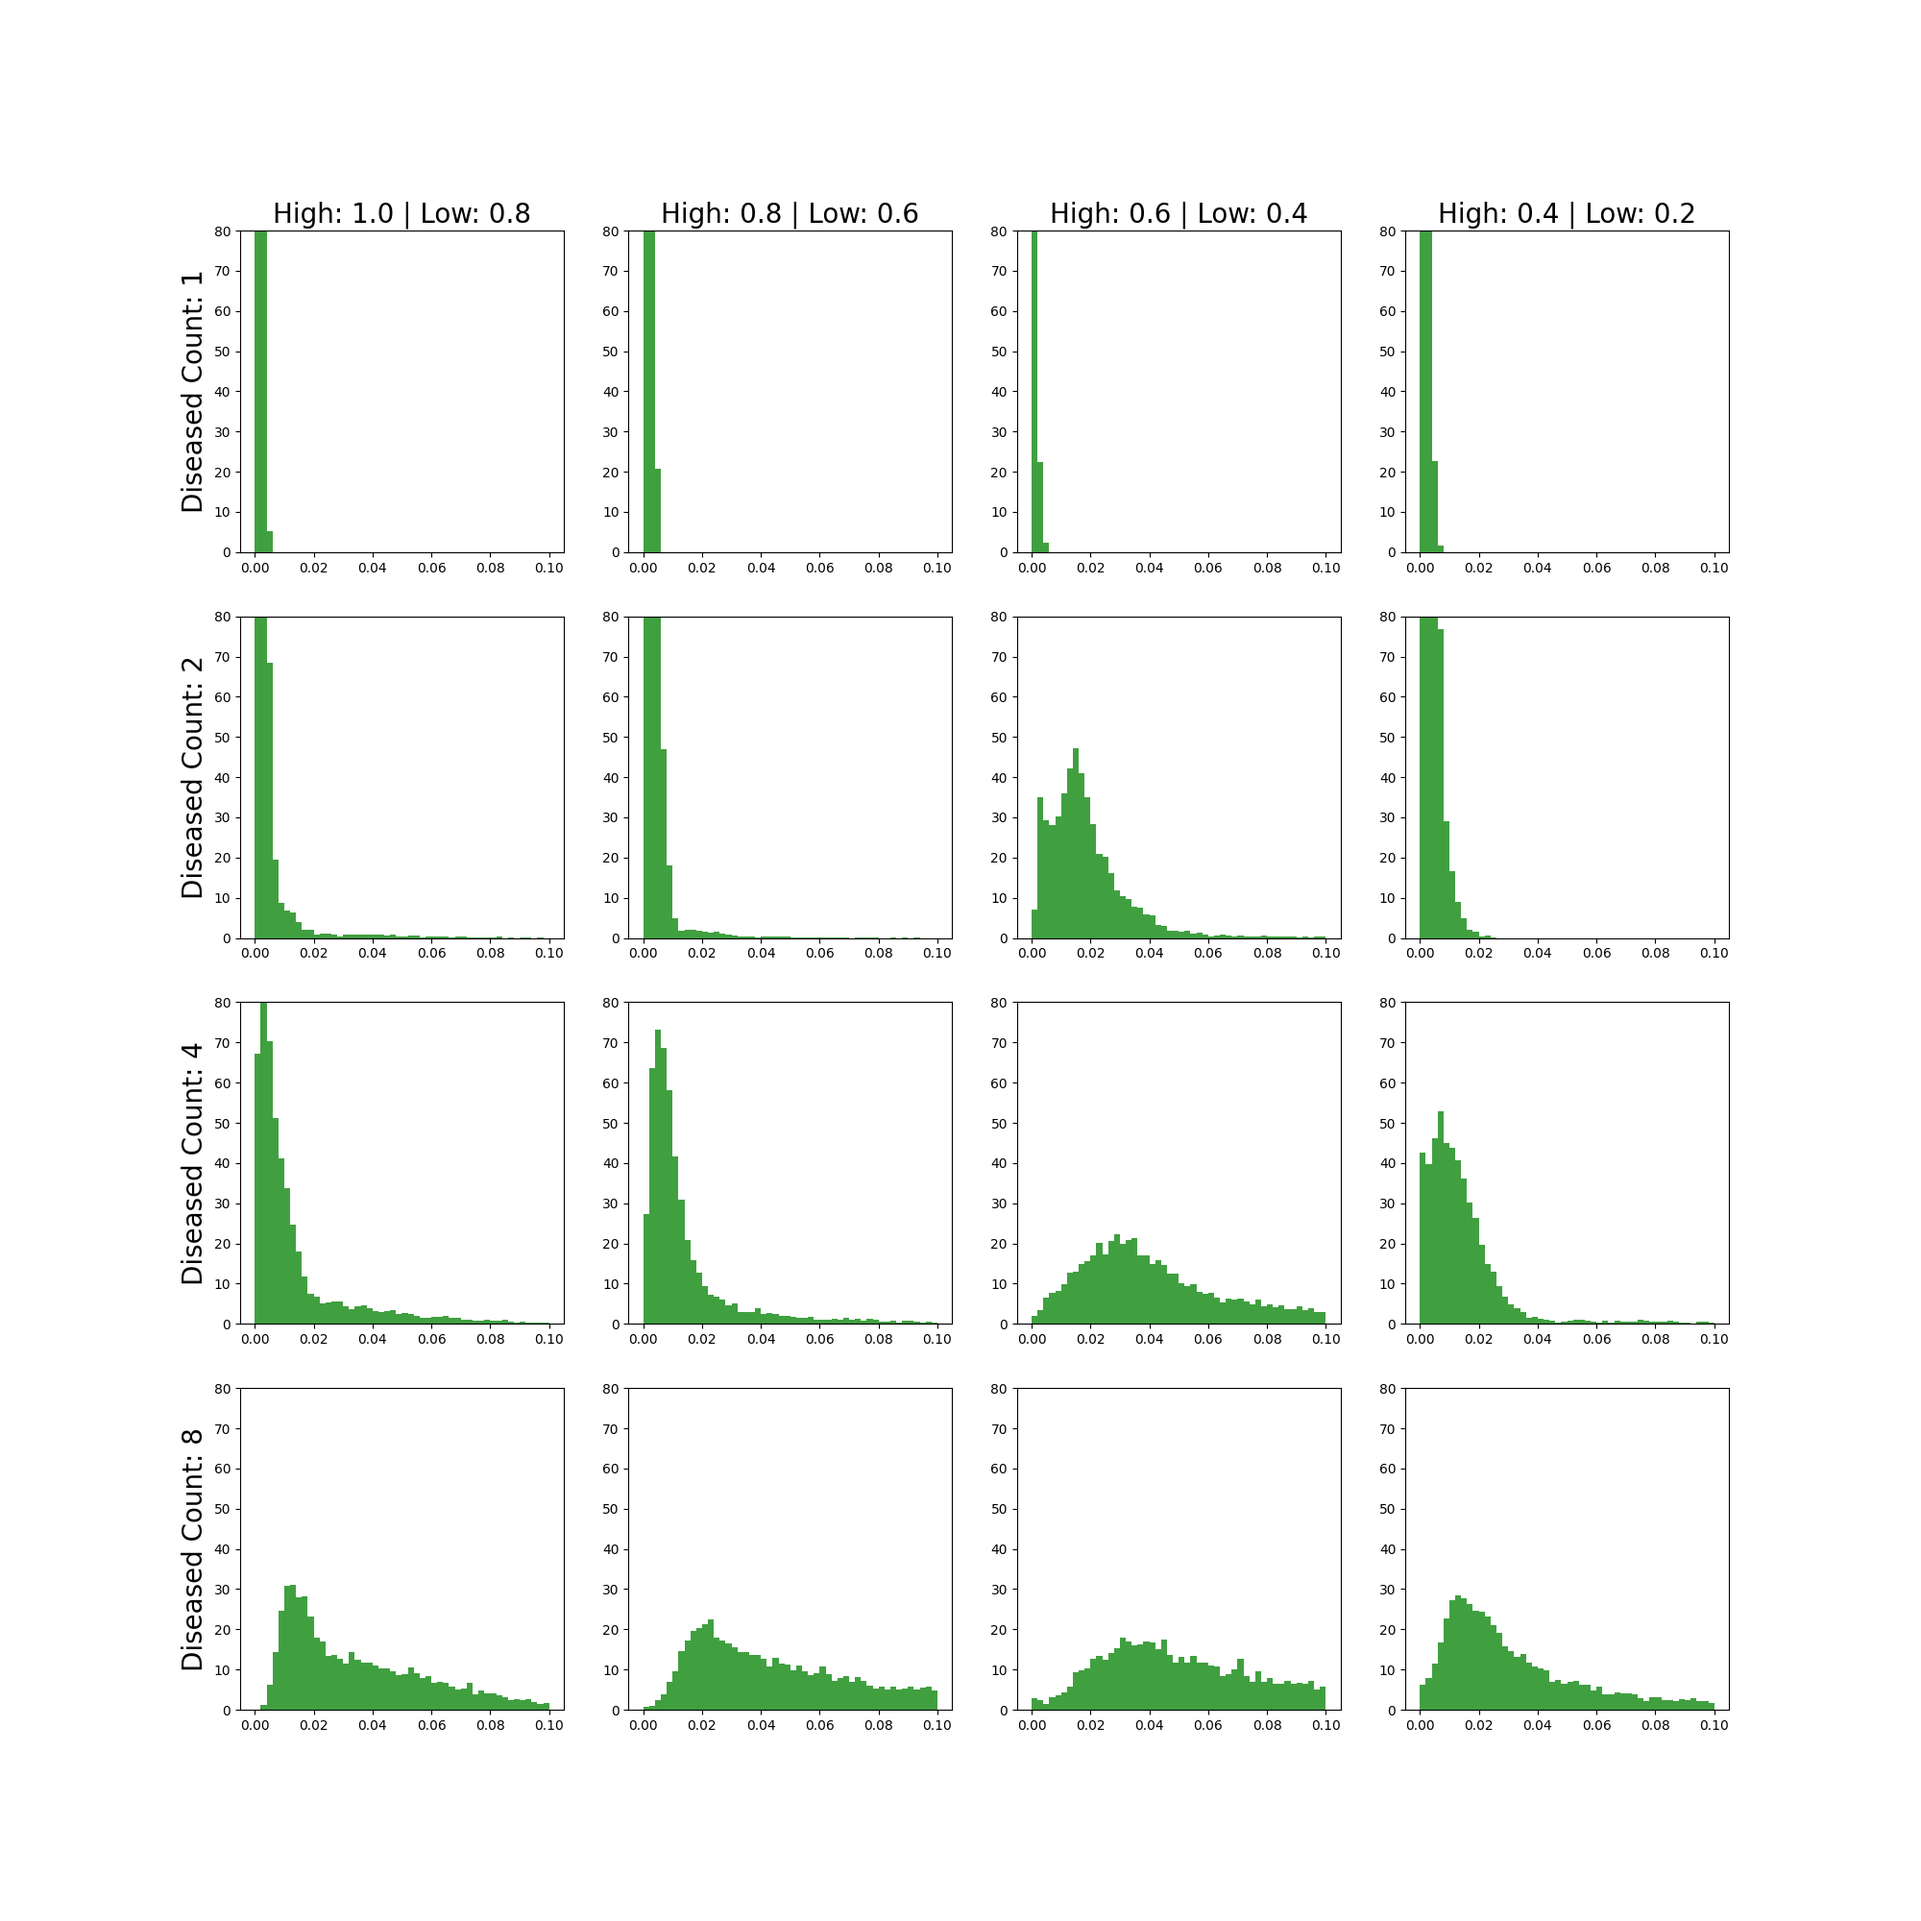
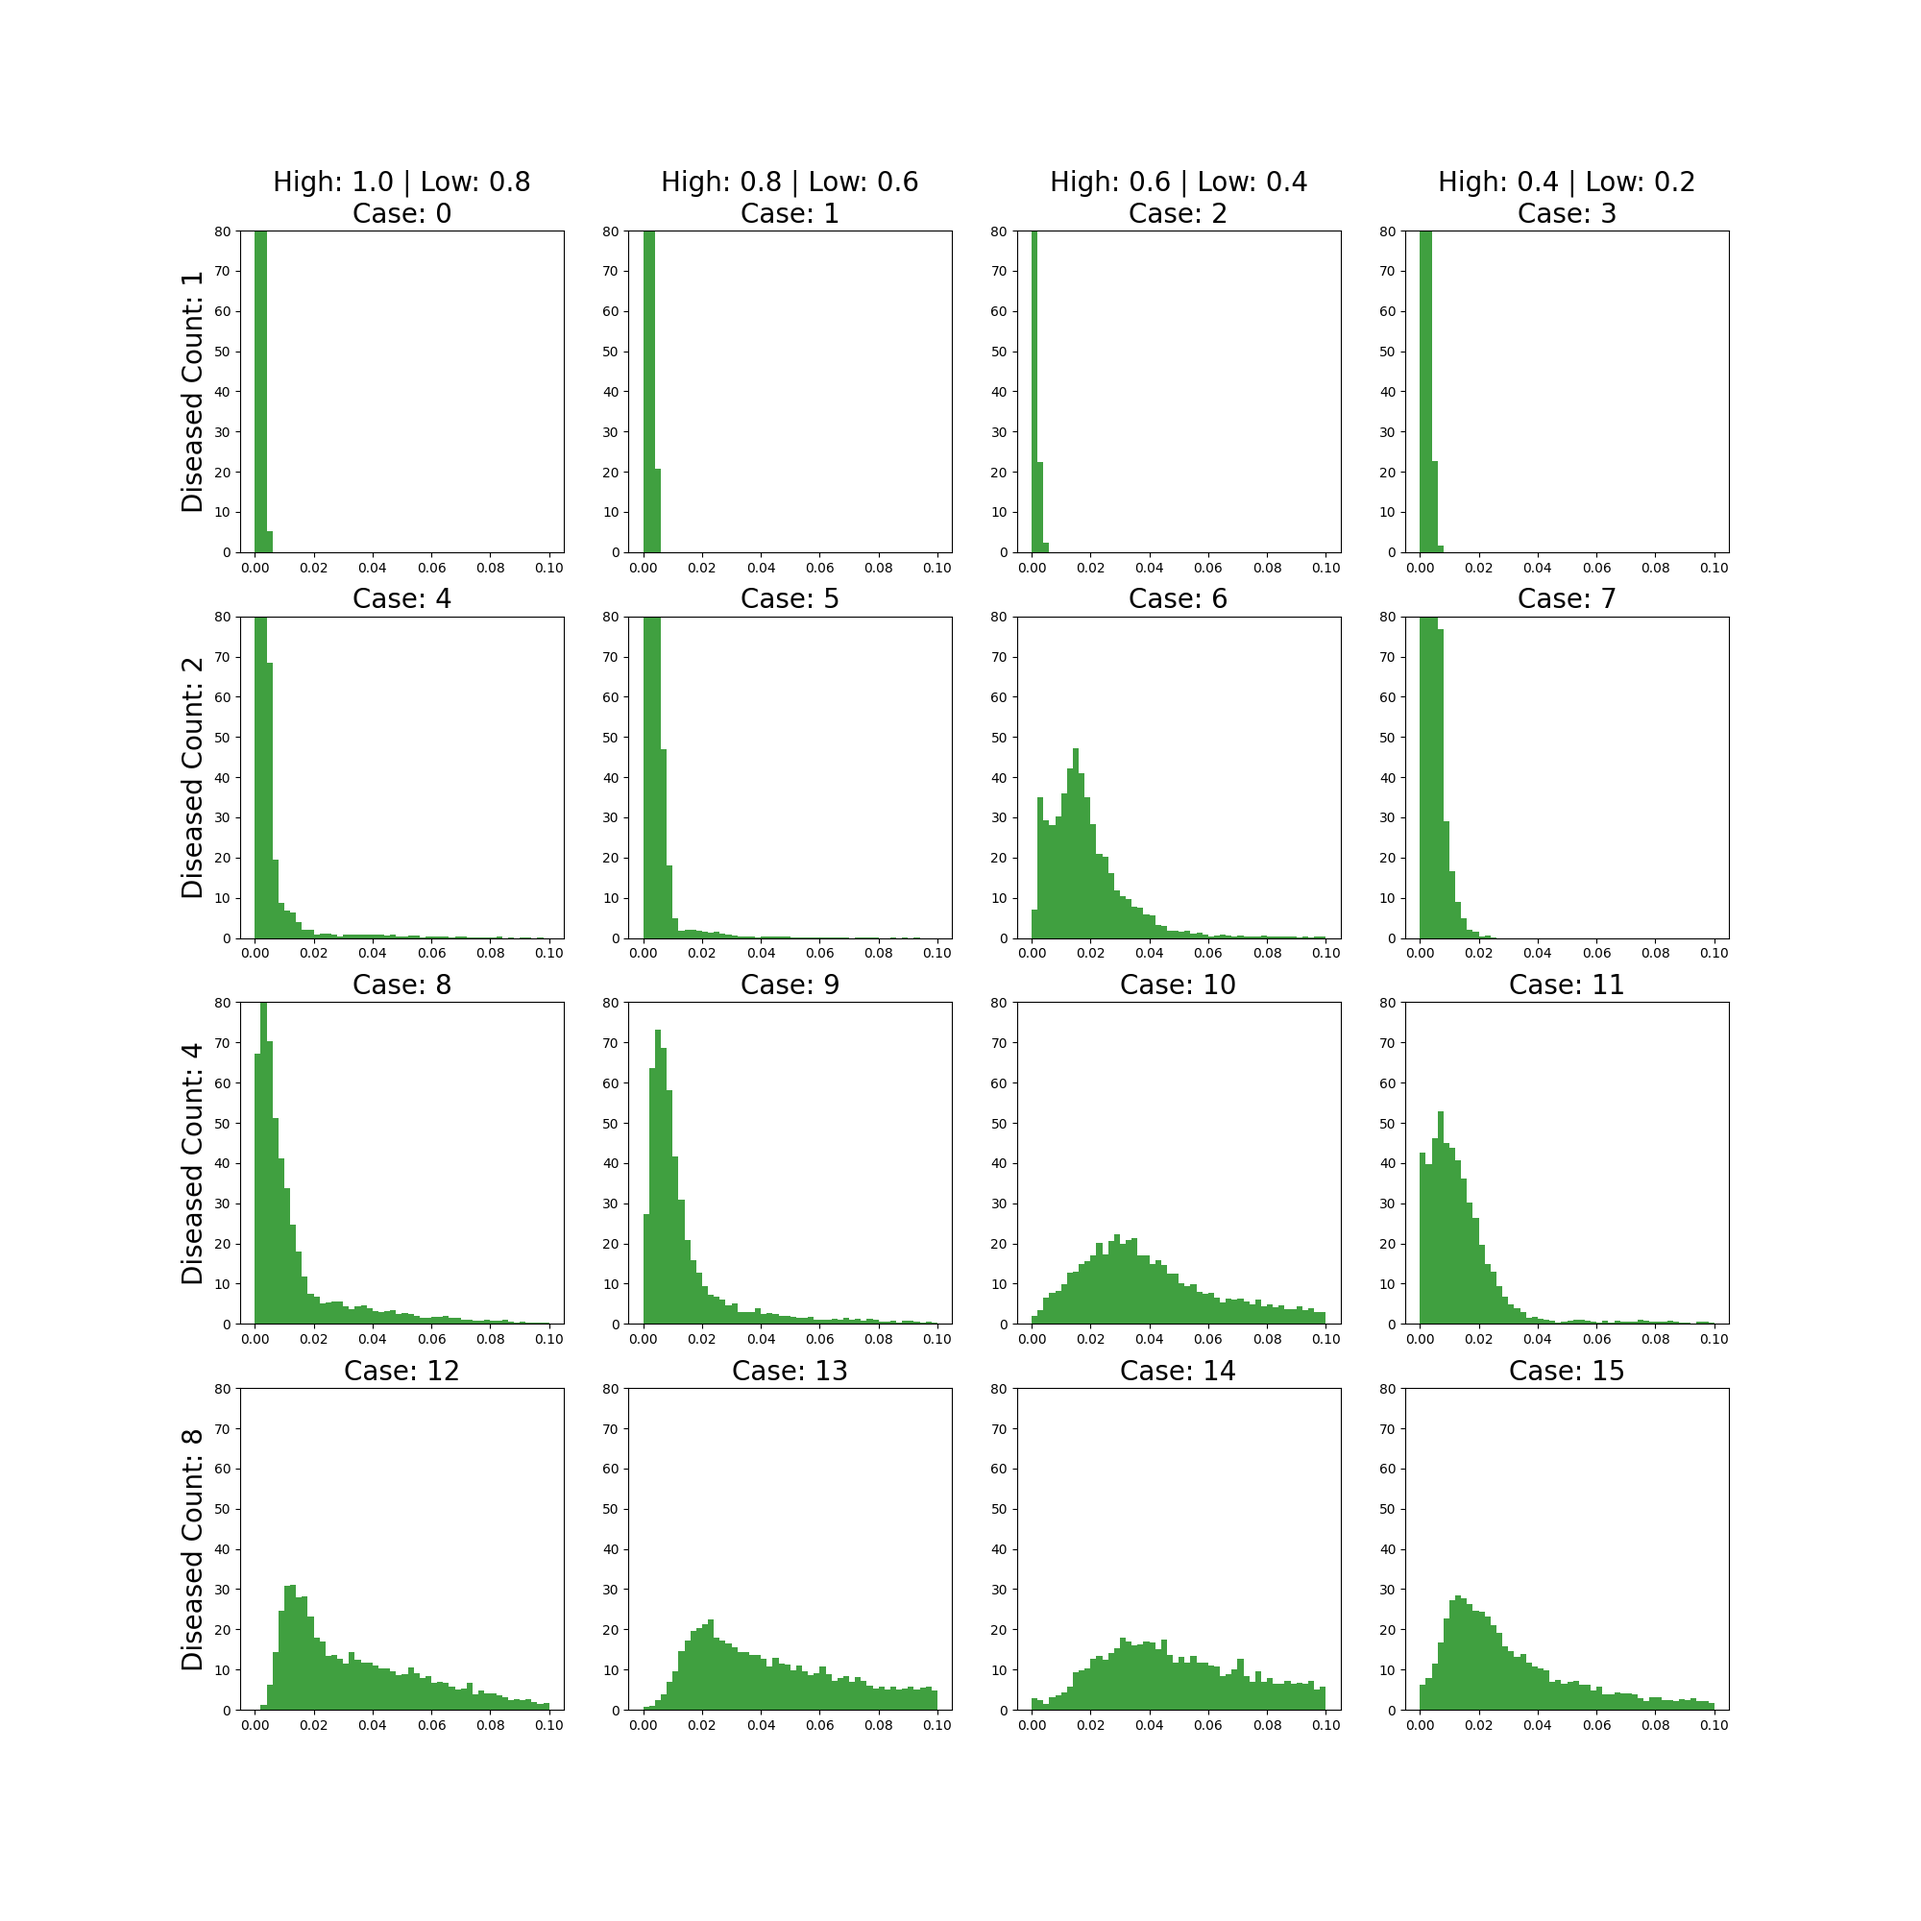
Commit of the first draft of the report.

diff --git a/igniteNeuralNetwork.py b/igniteNeuralNetwork.py
@@ -18,7 +18,7 @@ import time
 featureCount = dataSetClass.featureCount
 outputCount = dataSetClass.outputCount
 
-saveResults = True
+saveResults = False
 
 def shortToLong(restrictions):
     if main.nodeCount == 128:
@@ -36,7 +36,7 @@ def shortToLong(restrictions):
             longRestrictions[i+14-1] = longRestrictions[math.floor((i+14)/2)-1]
         return longRestrictions
 
-for case in range(16):
+for case in [10]:
     fileName = 'datasets/lung'+str(main.nodeCount)+'_continuous'+str(case)+'.npy'
 
     dataset = dataSetClass.MyDataset(fileName)
@@ -60,11 +60,11 @@ for case in range(16):
     valid_sampler = SubsetRandomSampler(val_indices)
 
     epochs = 120
-    train_batch_size = 1000          #1000
+    train_batch_size = 100          #1000
     val_batch_size = train_batch_size
     log_interval = 10
     learning_rate = 0.001           #0.004 
-    save_checkpoint = True
+    save_checkpoint = False
     load_checkpoint = False
 
     means = np.load('datasets/mean_variance/lung'+str(dataSetClass.nodeCount)+'_continuous'+str(case)+'_mean.npy')
@@ -103,19 +103,19 @@ for case in range(16):
         print(f"Epoch {e}/{n} : {i} - batch loss: {batch_loss}")
         iteration_train_losses.append(trainer.state.output)
 
-    @trainer.on(Events.EPOCH_COMPLETED)
-    def log_training_results(trainer):
-        evaluator.run(train_loader)
-        metrics = evaluator.state.metrics
-        train_losses.append(metrics['mse'])
-        print(f"Training Results - Epoch: {trainer.state.epoch} Avg loss: {metrics['mse']:.10f}")
+    #@trainer.on(Events.EPOCH_COMPLETED)
+    #def log_training_results(trainer):
+     #   evaluator.run(train_loader)
+     #   metrics = evaluator.state.metrics
+     #   train_losses.append(metrics['mse'])
+     #   print(f"Training Results - Epoch: {trainer.state.epoch} Avg loss: {metrics['mse']:.10f}")
 
-    @trainer.on(Events.EPOCH_COMPLETED)
-    def log_validation_results(trainer):
-        evaluator.run(val_loader)
-        metrics = evaluator.state.metrics
-        test_losses.append(metrics['mse'])
-        print(f"Validation Results - Epoch: {trainer.state.epoch} Avg loss: {metrics['mse']:.10f}")
+    #@trainer.on(Events.EPOCH_COMPLETED)
+    #def log_validation_results(trainer):
+    #    evaluator.run(val_loader)
+    #    metrics = evaluator.state.metrics
+    #    test_losses.append(metrics['mse'])
+    #    print(f"Validation Results - Epoch: {trainer.state.epoch} Avg loss: {metrics['mse']:.10f}")
 
 
     to_save = {'model': model, 'optimizer': optimizer, 'trainer': trainer}

diff --git a/printGraphs.py b/printGraphs.py
@@ -12,7 +12,8 @@ for case in range(16):
     low_rest = high_rest - 0.2 
     current_fig = fig.add_subplot(4, 4, case+1)
     if case < 4:
-        current_fig.set_title("High: "+str('%.1f' % high_rest)+" | Low: "+str('%.1f' % low_rest), fontsize = 20)
+        current_fig.set_title("High: "+str('%.1f' % high_rest)+" | Low: "+str('%.1f' % low_rest))
+    current_fig.set_title(current_fig.get_title()+"\nCase: "+str(case), fontsize = 20)
     if case % 4 == 0:
         current_fig.set_ylabel("Diseased Count: "+str(disease_count) )
     max_diff_vector = np.load("graph_vectors/"+str(main.nodeCount)+"max_diff_vector"+str(case)+".npy")
@@ -30,6 +31,7 @@ for case in range(16):
     current_fig = fig.add_subplot(4, 4, case+1)
     if case < 4:
         current_fig.set_title("High: "+str('%.1f' % high_rest)+" | Low: "+str('%.1f' % low_rest), fontsize = 20)
+    current_fig.set_title(current_fig.get_title()+"\nCase: "+str(case), fontsize = 20)
     if case % 4 == 0:
         current_fig.set_ylabel("Diseased Count: "+str(disease_count) )
     maxScaledDifferences = np.load("graph_vectors/"+str(main.nodeCount)+"maxScaledDifferences"+str(case)+".npy")
@@ -47,6 +49,7 @@ for case in range(16):
     current_fig = fig.add_subplot(4, 4, case+1)
     if case < 4:
         current_fig.set_title("High: "+str('%.1f' % high_rest)+" | Low: "+str('%.1f' % low_rest), fontsize = 20)
+    current_fig.set_title(current_fig.get_title()+"\nCase: "+str(case), fontsize = 20)
     if case % 4 == 0:
         current_fig.set_ylabel("Diseased Count: "+str(disease_count) )
     train_losses = np.load('datasets/losses/lung'+str(dataSetClass.nodeCount)+'_continuous'+str(case)+'_train_losses.npy')

diff --git a/dataSetTester.py b/dataSetTester.py
@@ -13,7 +13,7 @@ def check(volumes, restrictions):
         #print(restrictions)
         exit(0)    
 
-for case in [15]:
+for case in [13]:
     
     fileName = 'datasets/lung'+str(main.nodeCount)+'_continuous'+str(case)+'.npy'
     dataset = np.memmap(fileName, dtype = 'float64', mode='r')
@@ -23,7 +23,9 @@ for case in [15]:
 
     #def computeGenericLung(auxG, restrictions = np.full(nodeCount-1, 1), printLung = False, multiThreading = False):
     print("TESTING LUNG")
-    main.computeGenericLung(auxG = main.G.copy(), restrictions = dataset[np.random.randint(dataset.shape[0]), dataSetClass.featureCount:], printLung = True, multiThreading = False)
+    lung_cnt = 5
+    for i in range(lung_cnt):
+        main.computeGenericLung(auxG = main.G.copy(), restrictions = dataset[np.random.randint(dataset.shape[0]), dataSetClass.featureCount:], printLung = True, multiThreading = False)
 
     volumes = dataset[:,:dataSetClass.featureCount]
     restrictions = dataset[:,dataSetClass.featureCount:]

diff --git a/main.py b/main.py
@@ -301,7 +301,8 @@ def printCurrentLung(auxG):
     volumeAcinar.title.set_text("Acinar volume")
     volumeAcinar.set_ylabel("L")
     volumeAcinar.set_xlabel("s")
-    volumeAcinar.plot(timeList, auxG.nodes[nodeCount/2]['Vfunction'])
+    for new_node in range(int(nodeCount/2), nodeCount):
+        volumeAcinar.plot(timeList, auxG.nodes[new_node]['Vfunction'])
     for i in range(1,cycleCount*4):
         volumeAcinar.axvline(x=i, color='black', linestyle='--')
 

diff --git a/computeDataset.py b/computeDataset.py
@@ -12,8 +12,8 @@ import time
 import matplotlib.pyplot as plt
 warnings.filterwarnings("ignore")
 
-for curr_cnt in np.arange(50, 1000, 50, dtype=int):
-    for case in range(16):
+for curr_cnt in np.arange(50, 5000, 50, dtype=int):
+    for case in [10]:
         disease_count = 0
         low_rest = 0
         high_rest = 0
